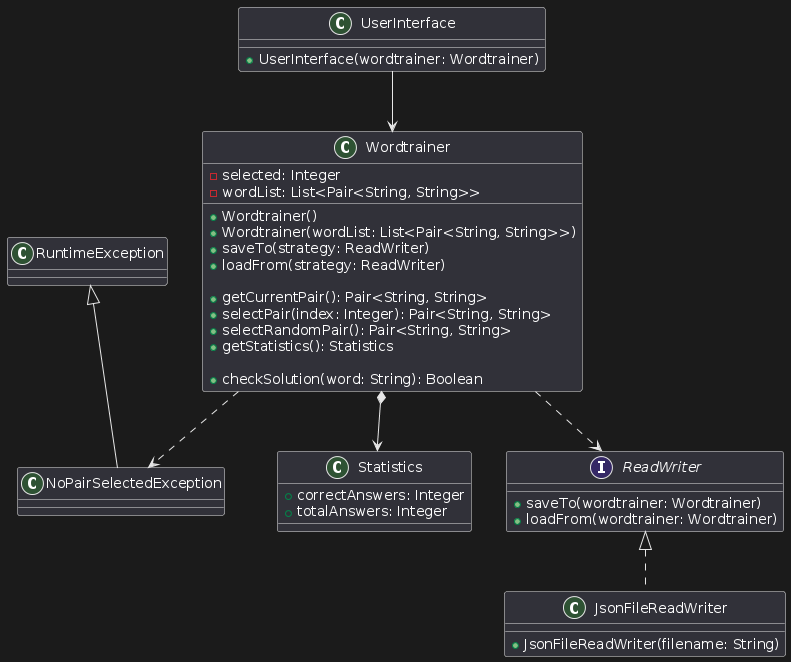
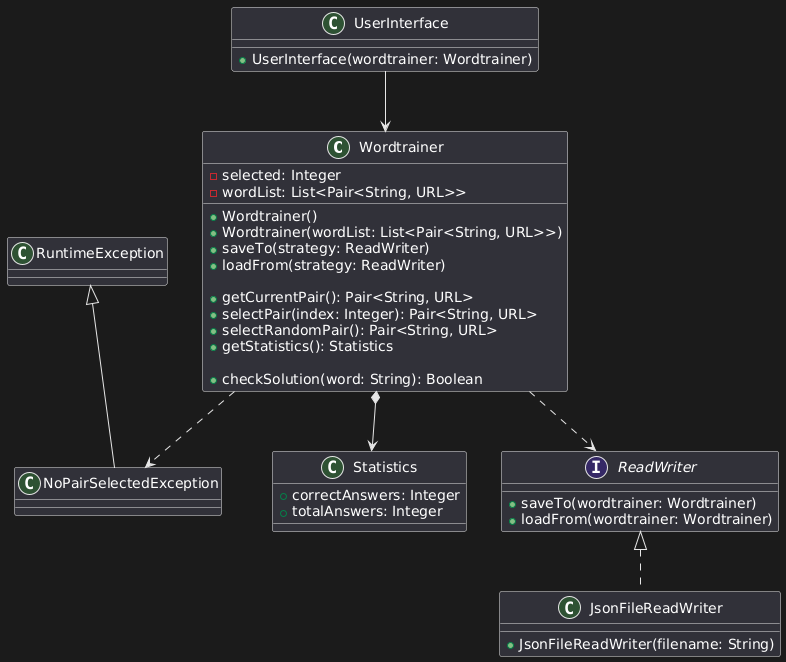
✨ Changed to pair<string, url>

diff --git a/app/src/main/kotlin/at/gao/Wordtrainer.kt b/app/src/main/kotlin/at/gao/Wordtrainer.kt
@@ -1,10 +1,11 @@
 package at.gao
 
+import java.net.URL
 import java.util.Random
 import kotlin.collections.mutableListOf
 
 class Wordtrainer(
-        private var wordList: MutableList<Pair<String, String>> = mutableListOf(defaultPair)
+        private var wordList: MutableList<Pair<String, URL>> = mutableListOf(defaultPair)
 ) {
     private var selected = -1
     private val random = Random()
@@ -15,7 +16,7 @@ class Wordtrainer(
      * Returns the current selected pair, or throws an exception if nothing is selected
      * @return the word and url, as pair
      */
-    fun getCurrentPair(): Pair<String, String> {
+    fun getCurrentPair(): Pair<String, URL> {
         if (selected < 0) throw NoPairSelectedException()
 
         return wordList[selected]
@@ -26,7 +27,7 @@ class Wordtrainer(
      * @param index the index of the pair
      * @return the word and url, as pair
      */
-    fun selectPair(index: Int): Pair<String, String> {
+    fun selectPair(index: Int): Pair<String, URL> {
         if (index >= wordList.size || index < 0) {
             throw IllegalArgumentException("$index is out of bounds")
         }
@@ -39,7 +40,7 @@ class Wordtrainer(
      * Selects a random word and url, and returns it.
      * @return the word and url, as pair
      */
-    fun selectRandomPair(): Pair<String, String> {
+    fun selectRandomPair(): Pair<String, URL> {
         selected = random.nextInt(wordList.size)
 
         return getCurrentPair()
@@ -47,9 +48,7 @@ class Wordtrainer(
 
     /**
      * Checks if a word (without leading and trailing whitespace) is equal to the current selected
-     * word. 
-     * If the guess is correct, the selection is cleared.
-     * Affects statistics.
+     * word. If the guess is correct, the selection is cleared. Affects statistics.
      * @param word the word
      * @return true
      */
@@ -74,6 +73,6 @@ class Wordtrainer(
     )
 
     companion object {
-        val defaultPair = Pair("test", "test")
+        val defaultPair = Pair("test", URL("https://picsum.photos/200"))
     }
 }

diff --git a/app/src/test/kotlin/at/gao/WordtrainerTest.kt b/app/src/test/kotlin/at/gao/WordtrainerTest.kt
@@ -1,5 +1,6 @@
 package at.gao
 
+import java.net.URL
 import kotlin.collections.mutableListOf
 import org.junit.jupiter.api.Assertions.*
 import org.junit.jupiter.api.BeforeEach
@@ -8,8 +9,8 @@ import org.junit.jupiter.api.Test
 class WordtrainerTest {
     val wordlist =
             mutableListOf(
-                    Pair("word1", "url1"),
-                    Pair("word2", "url2"),
+                    Pair("word1", URL("https://picsum.photos/200")),
+                    Pair("word2", URL("https://picsum.photos/200")),
             )
     var wordtrainer = Wordtrainer(wordlist)
 
@@ -32,9 +33,7 @@ class WordtrainerTest {
 
     @Test
     fun `default Selection Should Be None`() {
-        assertThrows(NoPairSelectedException::class.java) {
-            wordtrainer.getCurrentPair()
-        }
+        assertThrows(NoPairSelectedException::class.java) { wordtrainer.getCurrentPair() }
     }
 
     @Test
@@ -85,9 +84,7 @@ class WordtrainerTest {
 
         wordtrainer.checkSolution(wordlist[0].first)
 
-        assertThrows(NoPairSelectedException::class.java) {
-            wordtrainer.getCurrentPair()
-        }
+        assertThrows(NoPairSelectedException::class.java) { wordtrainer.getCurrentPair() }
     }
 
     @Test
@@ -97,9 +94,7 @@ class WordtrainerTest {
         wordtrainer.checkSolution(wordlist[1].first)
 
         assertTrue(wordtrainer.checkSolution(wordlist[0].first), "Pair was switched")
-        
     }
-
 
     @Test
     fun `statistics Should Get Tracked`() {
